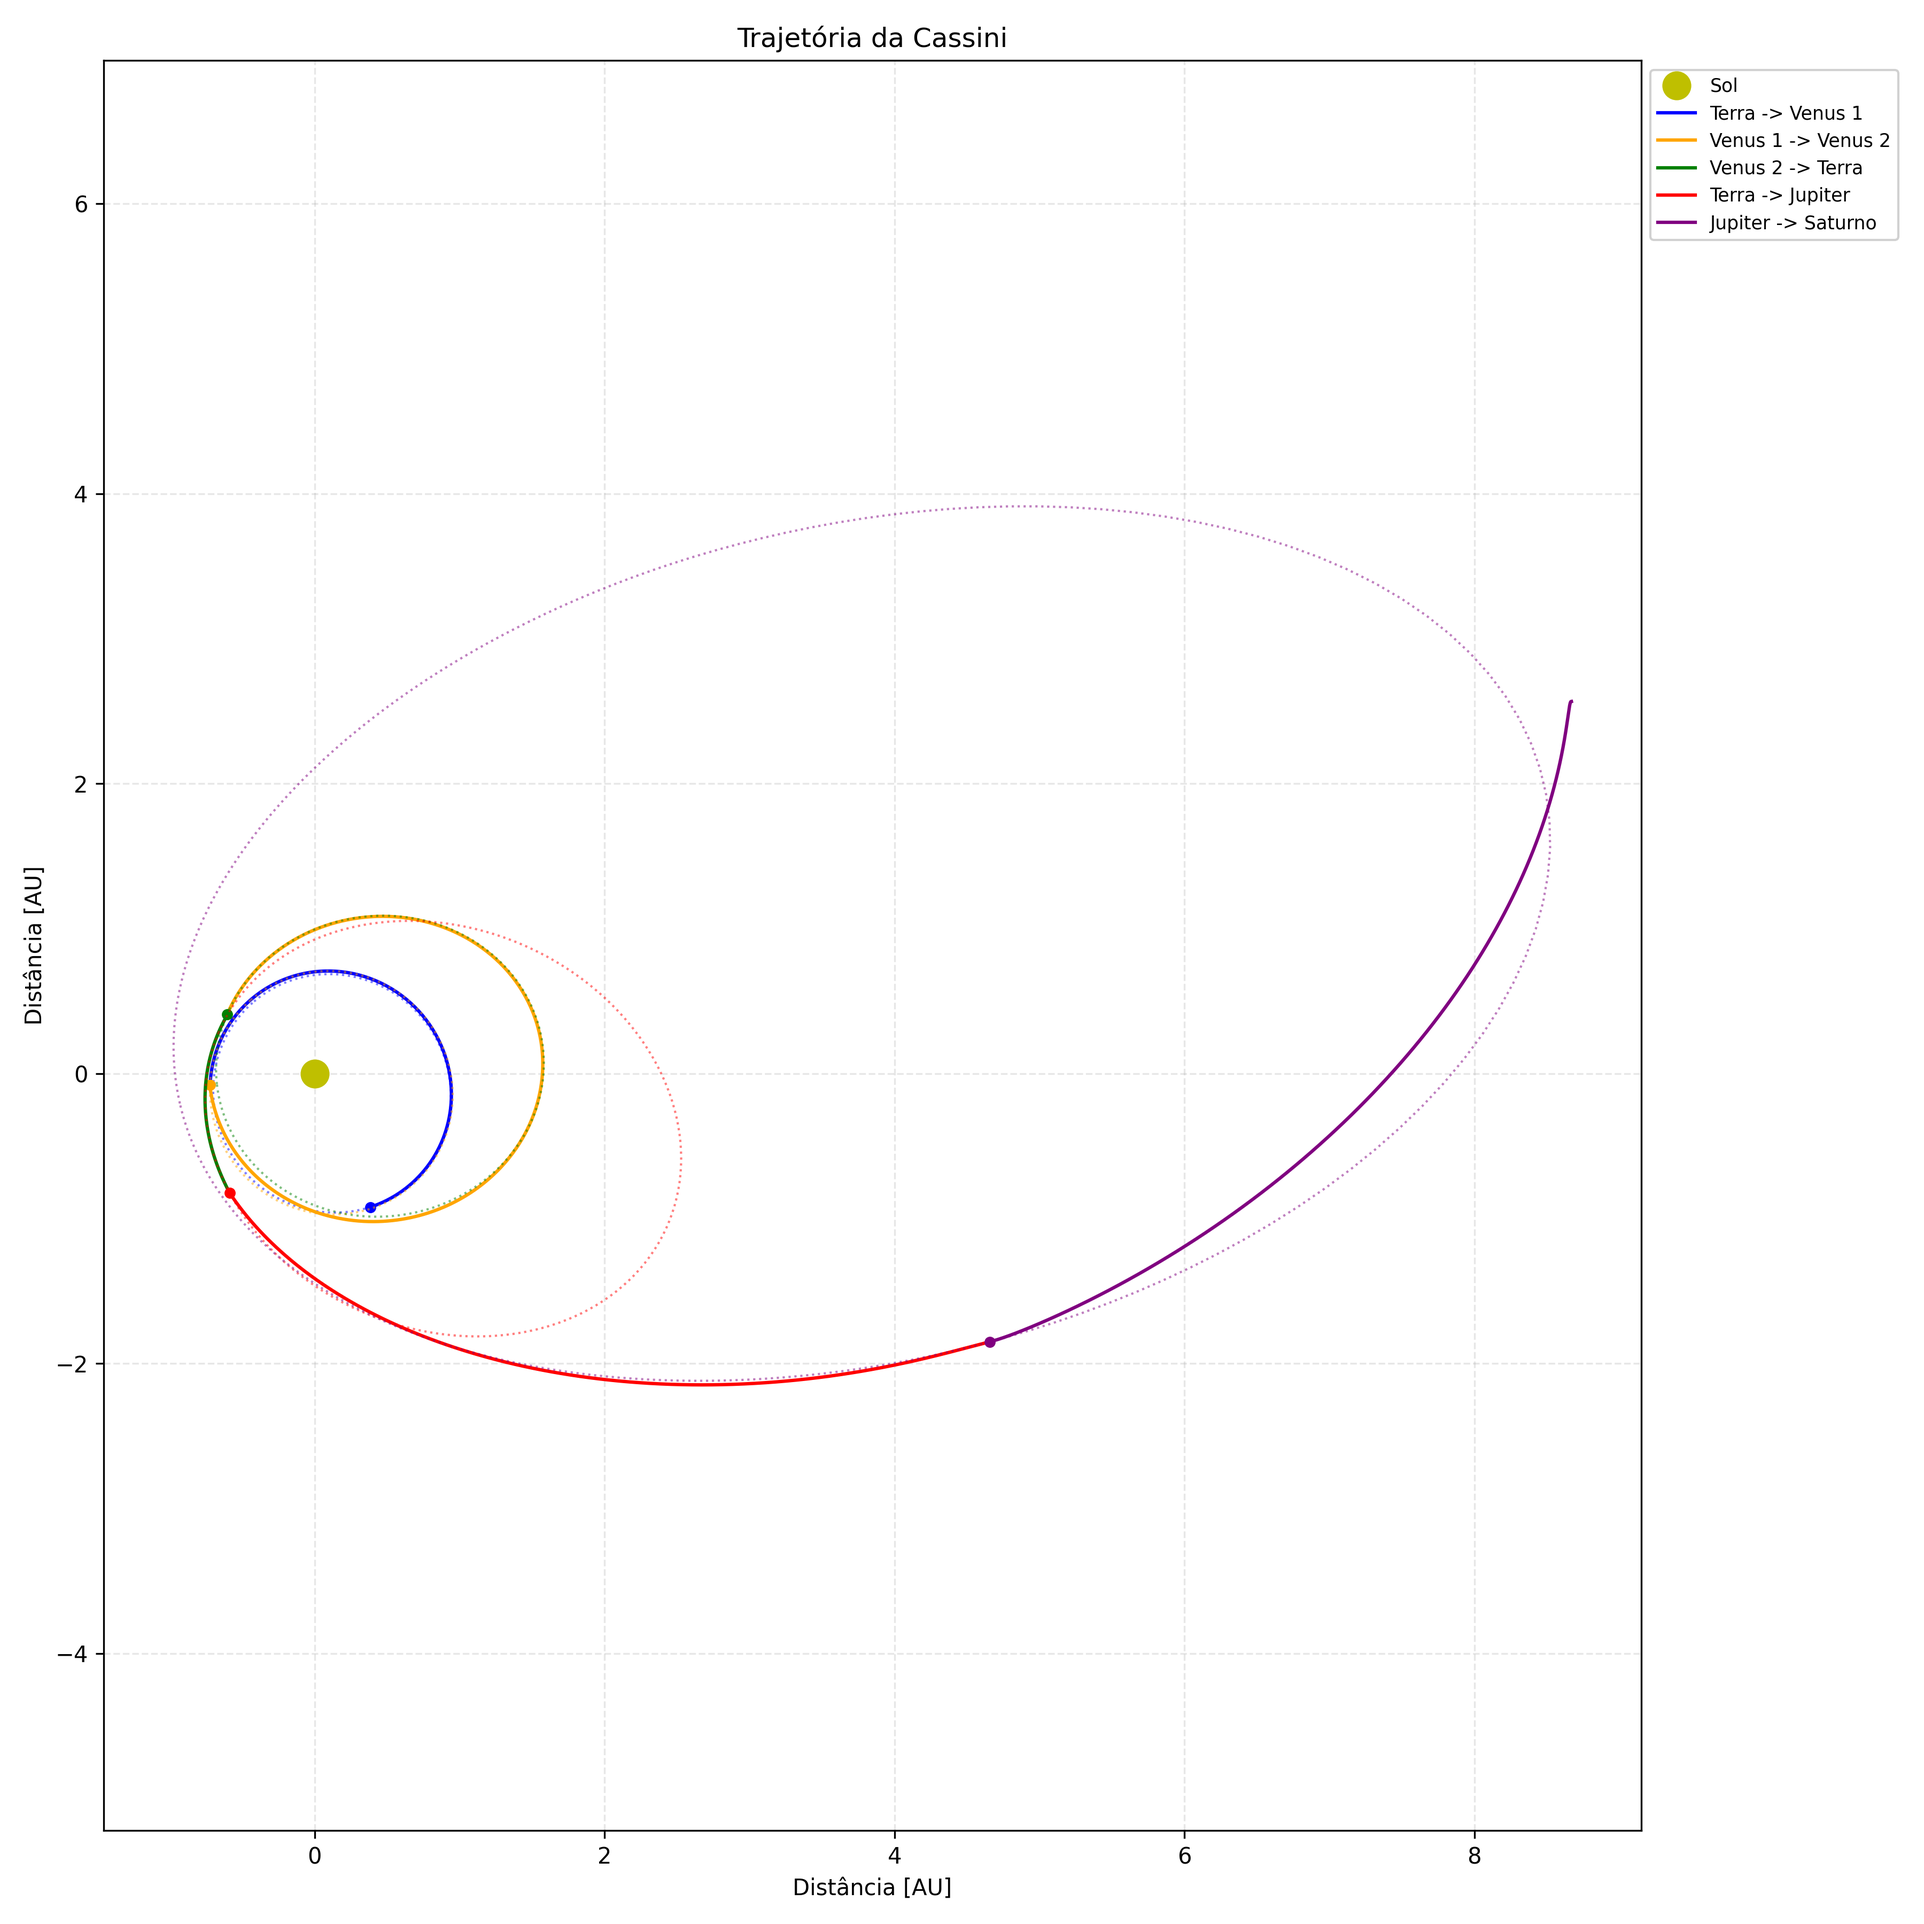
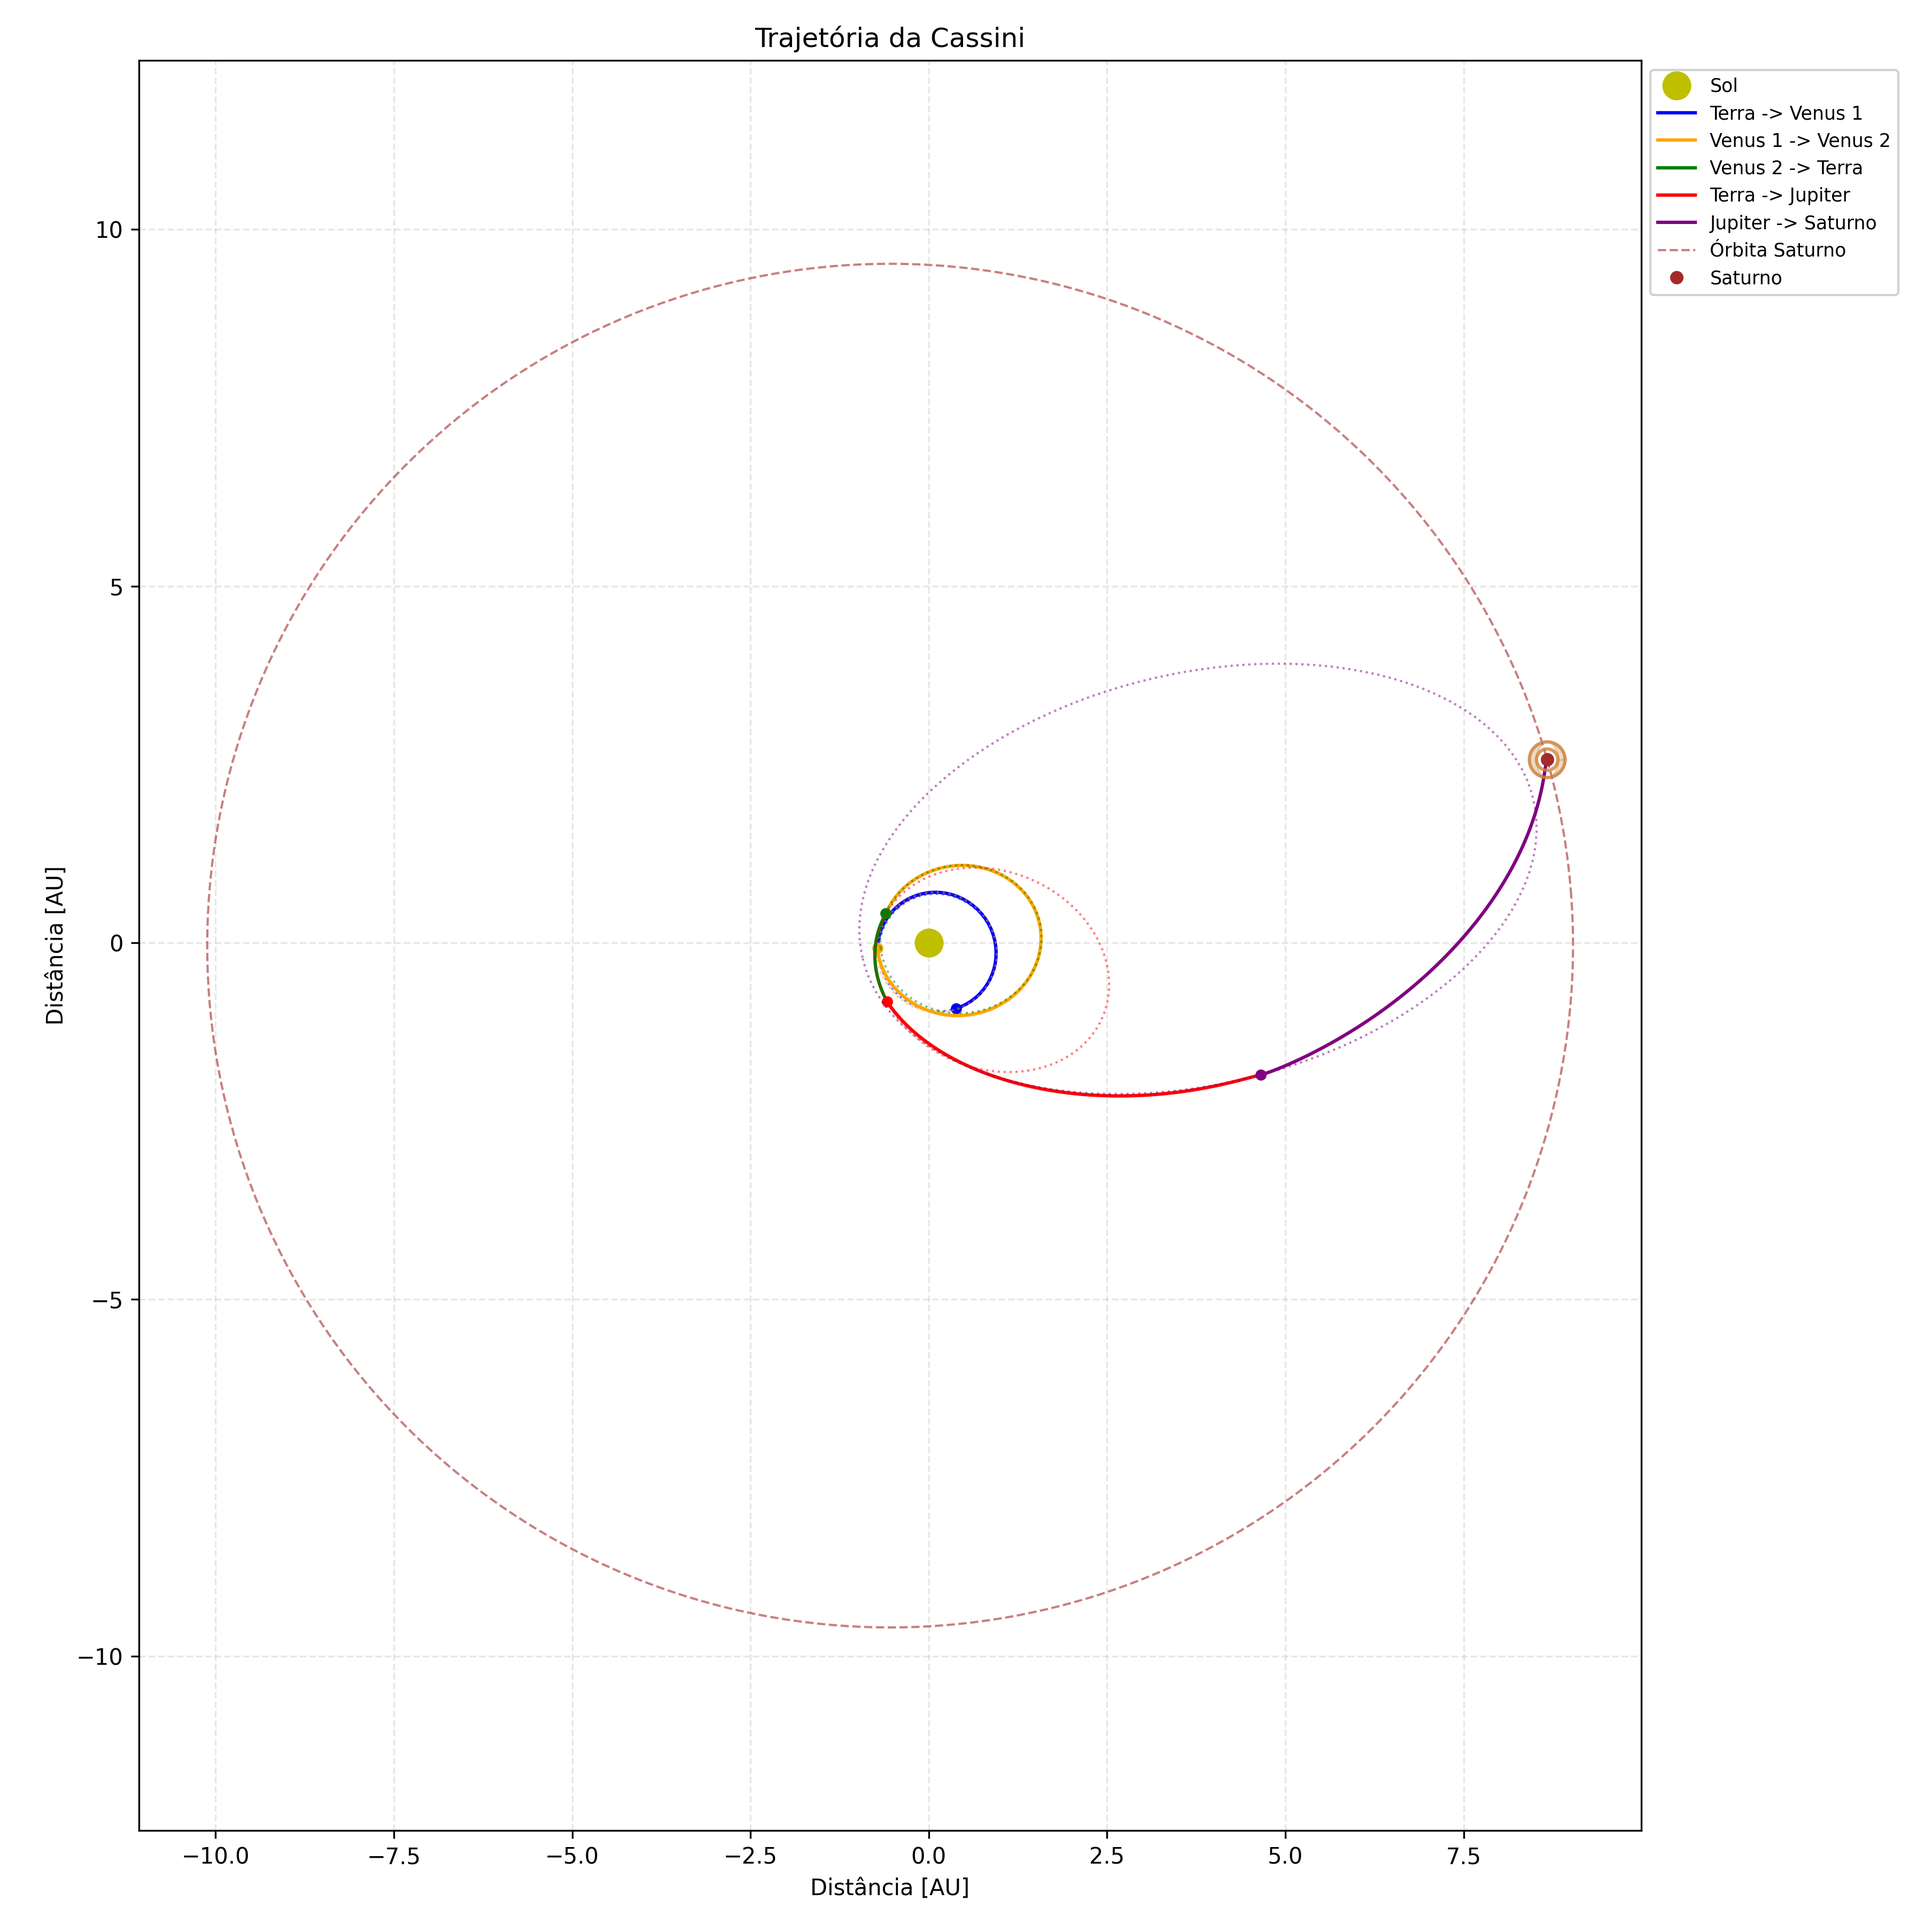
Adicionado Saturno pra simular chegada

diff --git a/Calculos_Cassini.py b/Calculos_Cassini.py
@@ -143,7 +143,7 @@ if dados_cassini:
         indices = np.where((jds >= jd_inicio) & (jds <= jd_fim))[0]
 
         if len(indices) > 0:
-            # Dados reais para PLOTAGEM
+            # Dados para plotar
             segmento_r = np.array([dados_cassini[k]['r'] for k in indices])
             x_real, y_real = segmento_r[:, 0], segmento_r[:, 1]
             x_plot, y_plot = rotacionar_90_horario(x_real, y_real)
@@ -162,15 +162,48 @@ if dados_cassini:
             if f_end < f_start:
                 f_end += 2 * np.pi
 
-            # Orbita completa
+            # Plotagem da órbita completa tracejada
             f_full = np.linspace(0, 2 * np.pi, 300)
             x_full, y_full = orb.pos_orb(f_full)
             x_full_rot, y_full_rot = rotacionar_90_horario(x_full, y_full)
             plt.plot(x_full_rot, y_full_rot, ':', color=cor, alpha=0.5, linewidth=1)
 
+# Adiciona a chegada em Saturno
+if 'Saturno' in dados_planetas:
+    jd_chegada = eventos_jd['Saturno']
+    jds_s = np.array([d['jd'] for d in dados_planetas['Saturno']])
+    idx_s = (np.abs(jds_s - jd_chegada)).argmin()
+    pt_saturno = dados_planetas['Saturno'][idx_s]
+
+    orb_sat = Orbita()
+    orb_sat.vet_estado(mu_Sol, pt_saturno['r'], pt_saturno['v'])
+
+
+    f_sat = np.linspace(0, 2 * np.pi, 300)
+    x_sat, y_sat = orb_sat.pos_orb(f_sat)
+    x_s_rot, y_s_rot = rotacionar_90_horario(x_sat, y_sat)
+
+    plt.plot(x_s_rot, y_s_rot, '--', color='brown', alpha=0.6, linewidth=1, label='Órbita Saturno')
+
+    xs_real, ys_real = rotacionar_90_horario(pt_saturno['r'][0], pt_saturno['r'][1])
+    plt.plot(xs_real, ys_real, 'o', color='brown', markersize=5, label='Saturno')
+
+    theta_anel = np.linspace(0, 2 * np.pi, 100)
+
+    # Raio visual do anel
+    raio_anel = 0.25
+
+    x_anel = xs_real + raio_anel * np.cos(theta_anel)
+    y_anel = ys_real + (raio_anel) * np.sin(theta_anel) # Multiplico por 0.3 para "achatar" (efeito 3D)
+
+    # Plotar o anel
+    plt.plot(x_anel, y_anel, '-', color='peru', alpha=0.8, linewidth=1.5)
+
 plt.legend(loc='upper left', fontsize='small', framealpha=0.9, bbox_to_anchor=(1, 1))
 plt.tight_layout()
 plt.savefig("./Outputs/trajetoria_completa_cassini.png", dpi=300)
+plt.xlim(-2,8)
+plt.ylim(-4,6)
 plt.show()
 
 # Calculo Flybys
